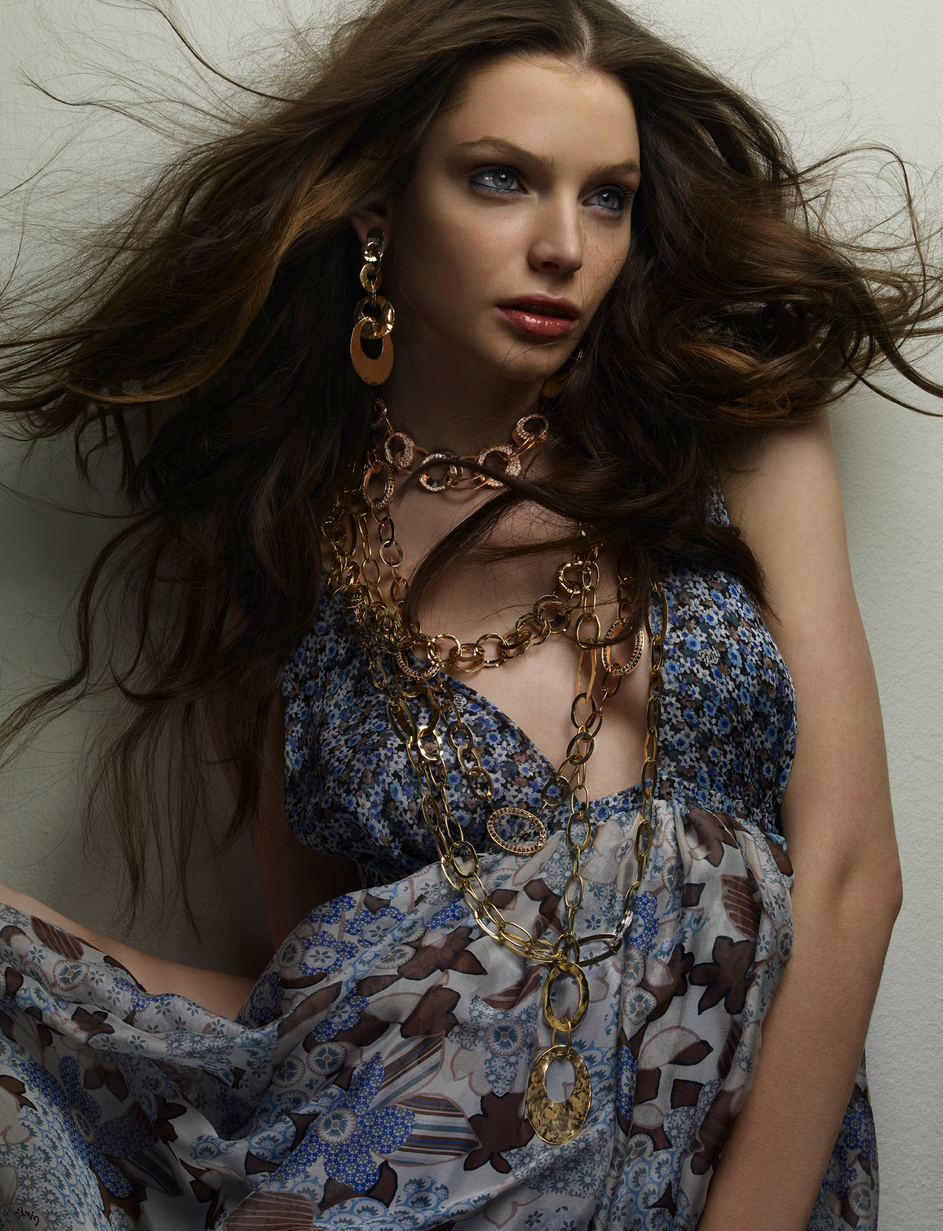
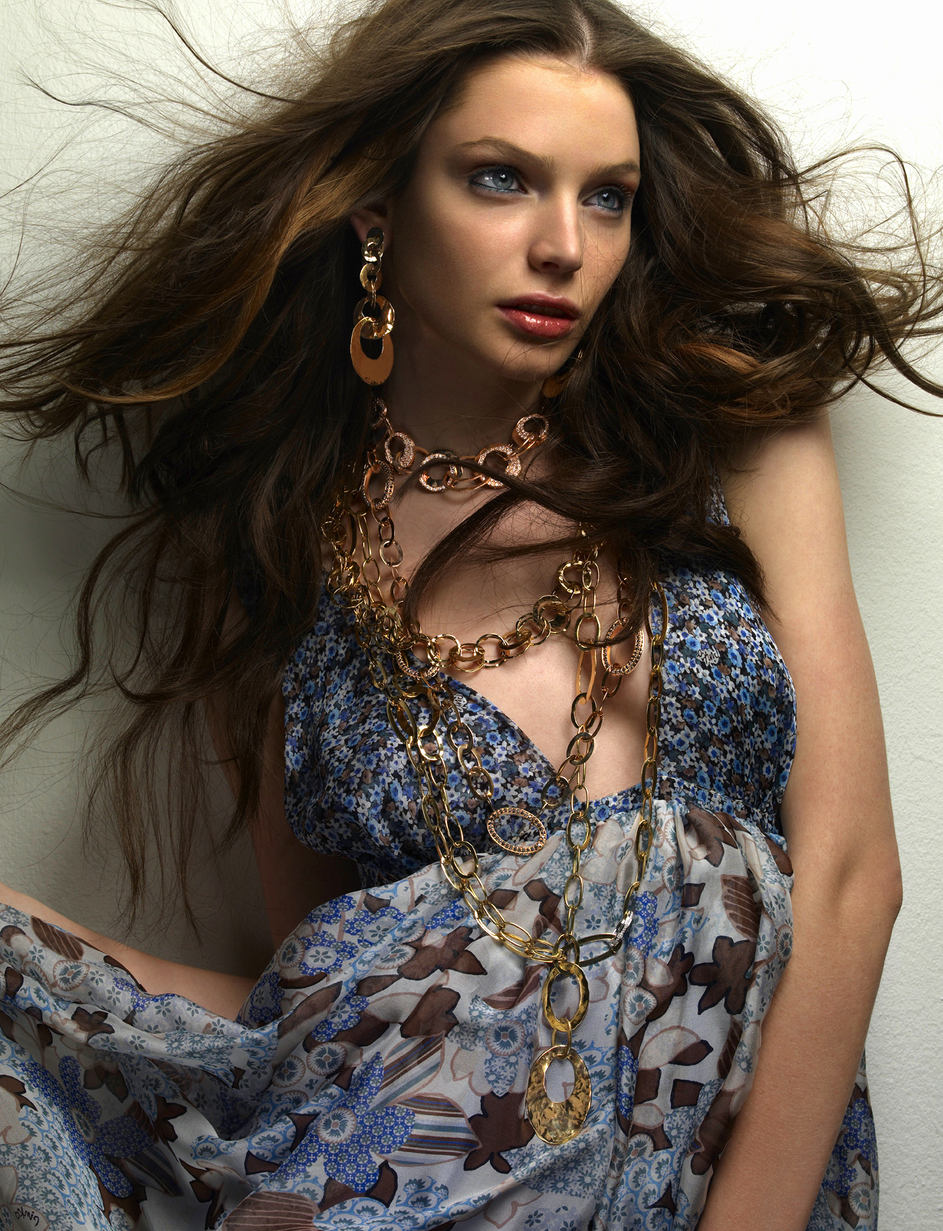
first commit

diff --git a/src/scenes/home/Home.jsx b/src/scenes/home/Home.jsx
@@ -3,8 +3,8 @@ import styled from 'styled-components';
 import video2 from '../../assets/video2.mp4';
 import ShoppingList from './ShoppingList2&mobile';
 import Modella2 from"../../assets/modellasmeraldo.jpg";
-import Modella3 from"../../assets/modellazingara.avif";
-import Anello1 from"../../assets/modella2.avif";
+import Modella3 from"../../assets/modellazingara.jpg";
+import Anello1 from"../../assets/modella2.png";
 import SelectedItem1White from"../../assets/A58.avif";
 import SelectedItem1Model from"../../assets/urania.avif";
 import Maison from"../../assets/maison1.avif";
